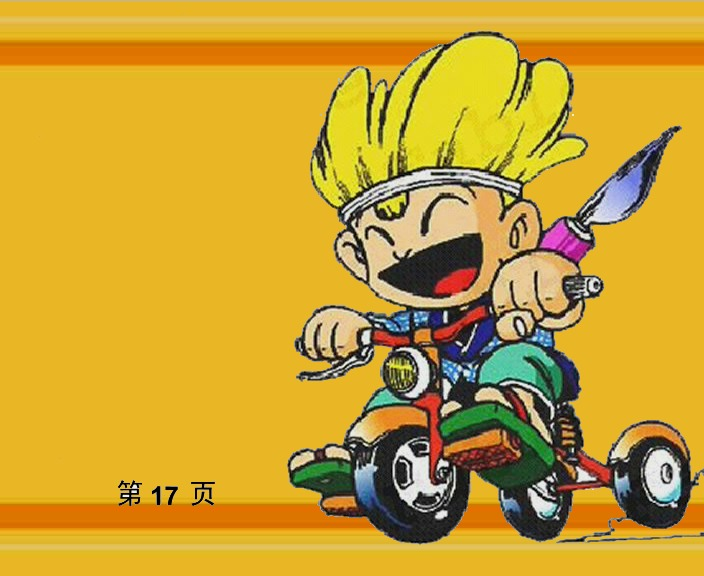
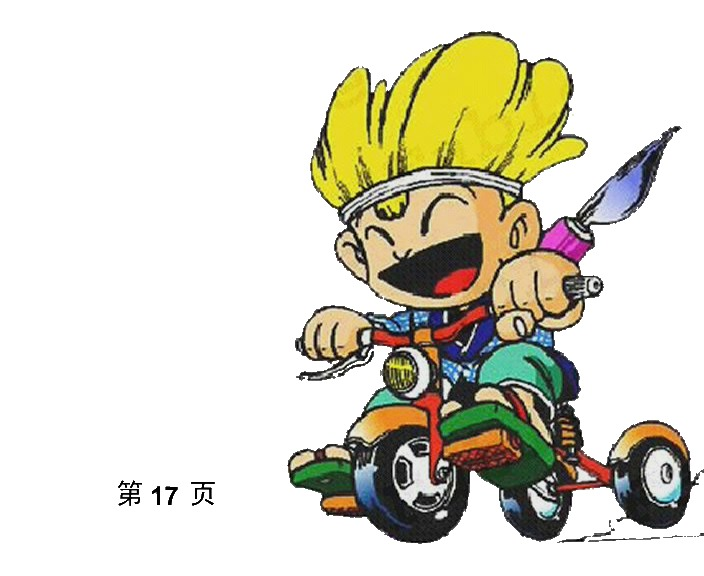
fix: restore the original white page backgrounds
Pages 2-30 of the reference set are white, not yellow. Keep their original white background, remove only text glyphs and the Sample watermark, and leave the page artwork and star border intact. Page 1 stays yellow.

diff --git a/tools/prepare_menu_pages.py b/tools/prepare_menu_pages.py
@@ -30,18 +30,58 @@ def _is_text(px, x, y):
     return r < TEXT_LEVEL and g < TEXT_LEVEL and b < TEXT_LEVEL
 
 
-def strip_text(im, pattern=None, clear_white=False):
+def clean_white_background(im):
+    """保留白色底，只清掉与边缘连通的水印/浅灰，不改成黄底"""
+    w, h = im.size
+    px = im.load()
+    seen = bytearray(w * h)
+    q = deque()
+
+    def is_bg(c):
+        return min(c) > 120 and max(c) - min(c) < 40
+
+    def add(x, y):
+        if 0 <= x < w and 0 <= y < h and not seen[y * w + x] and is_bg(px[x, y]):
+            seen[y * w + x] = 1
+            q.append((x, y))
+
+    for x in range(w):
+        add(x, 0)
+        add(x, h - 1)
+    for y in range(h):
+        add(0, y)
+        add(w - 1, y)
+    # 第 5/10/... 页的白色内区被星形边框围住，补几个内部种子
+    for seed in ((70, 80), (70, 300), (70, 500)):
+        add(*seed)
+    while q:
+        x, y = q.popleft()
+        for nx, ny in ((x - 1, y), (x + 1, y), (x, y - 1), (x, y + 1)):
+            add(nx, ny)
+    for y in range(h):
+        row = y * w
+        for x in range(w):
+            if seen[row + x]:
+                px[x, y] = (255, 255, 255)
+    return im
+
+
+def strip_text(im, pattern=None, white_bg=False):
     """只补文字笔画和浅色水印，不碰右侧卡通画/边框"""
     w, h = im.size
     px = im.load()
-    base = pattern or im
+    pattern = pattern or im
     x0, y0, x1, y1 = TEXT_BOX
     x1, y1 = min(x1, w), min(y1, h)
 
-    # 文字区内的白色/浅灰（含 Sample 水印和灰色抗锯齿）先换成第 1 页黄底；
-    # 只处理低饱和浅色，彩色卡通画不受影响。
+    def bg_at(y):
+        if white_bg:
+            return (255, 255, 255)
+        return pattern.getpixel((20, y))
+
+    # 文字区内的白色/浅灰（含 Sample 水印和抗锯齿）换成该页底色
     for y in range(y0, y1):
-        bg = base.getpixel((20, y))
+        bg = bg_at(y)
         for x in range(x0, x1):
             c = px[x, y]
             if min(c) > 120 and max(c) - min(c) < 40:
@@ -69,7 +109,7 @@ def strip_text(im, pattern=None, clear_white=False):
     for yy in range(len(dil)):
         y = y0 + yy
         row = dil[yy]
-        fallback = base.getpixel((20, y))
+        fallback = bg_at(y)
         xx = 0
         while xx < len(row):
             if not row[xx]:
@@ -149,8 +189,8 @@ def main(argv=None):
             return 1
         im = Image.open(p).convert("RGB")
         if i > 1:
-            im = recolor_white_to_yellow(im, base)
-        im = strip_text(im, base)
+            im = clean_white_background(im)
+        im = strip_text(im, base, white_bg=(i > 1))
         im.save(os.path.join(args.out, "%02d.png" % i))
         n += 1
     print("处理 %d 页 -> %s" % (n, args.out))
